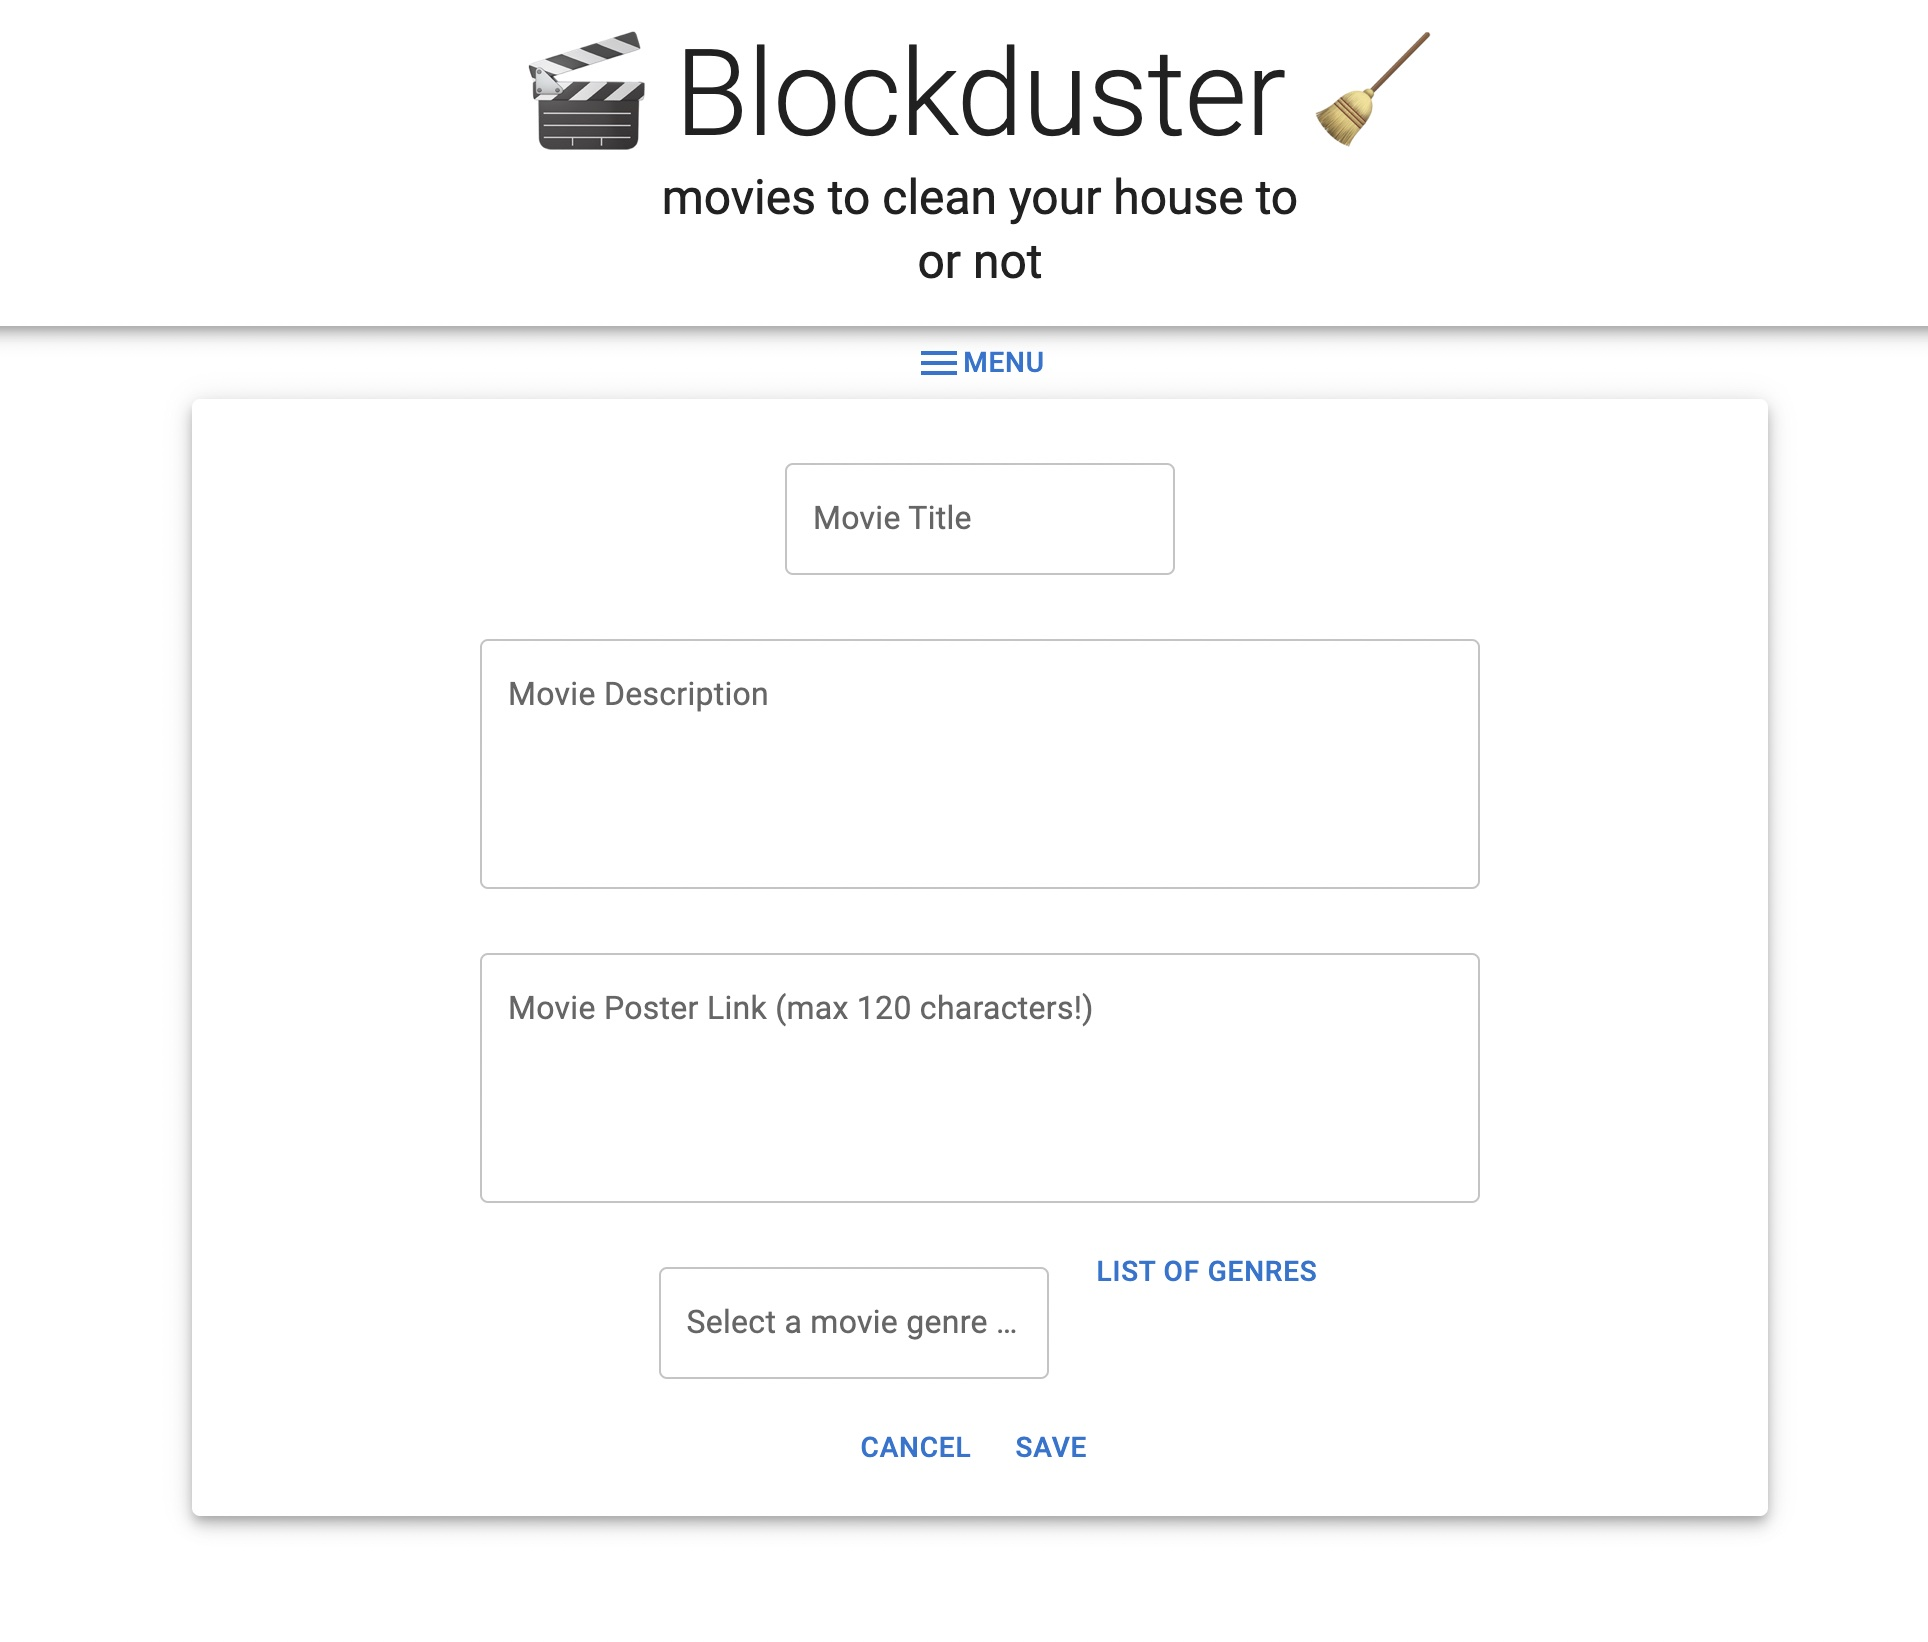
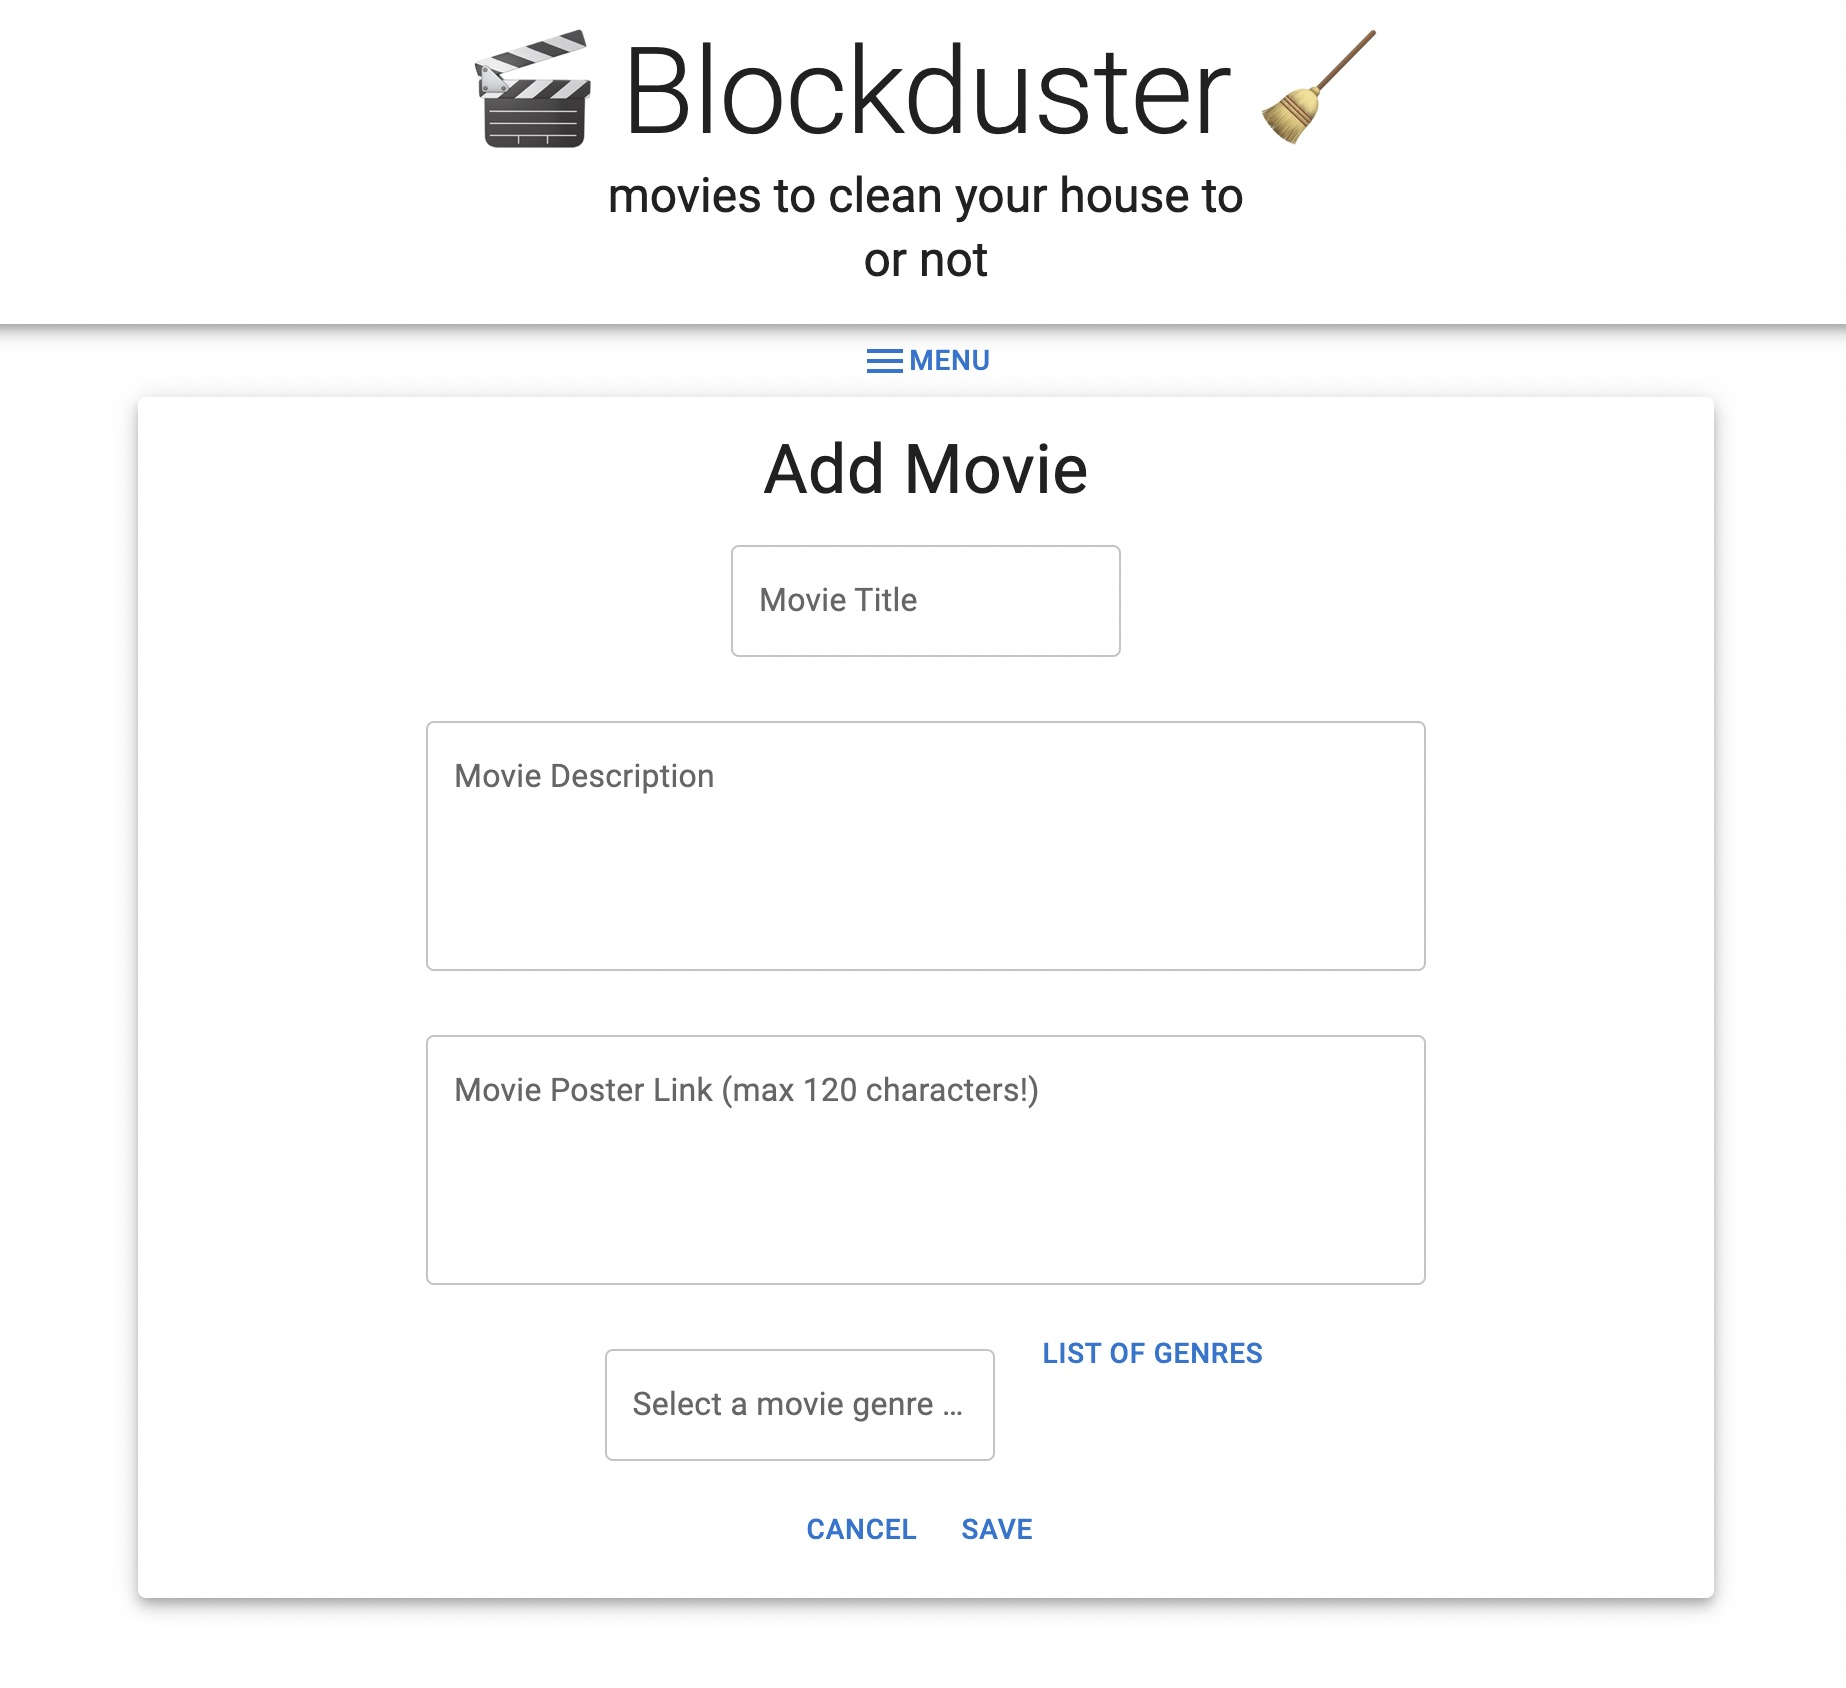
added page title to AddMovie and EditMovieDetails, updated related screenshots

diff --git a/src/components/AddMovie/AddMovie.jsx b/src/components/AddMovie/AddMovie.jsx
@@ -8,6 +8,7 @@ import Button from '@mui/material/Button';
 import Menu from '@mui/material/Menu';
 import MenuItem from '@mui/material/MenuItem';
 import Container from '@mui/material/Grid';
+import { Typography } from '@mui/material';
 
 const AddMovie = () => {
 
@@ -61,6 +62,7 @@ const AddMovie = () => {
             </Container>
             <Container sx={{display: 'flex', justifyContent: 'center'}}>
                 <Card elevation={5} sx={{width: '50%', padding: 2}}>
+                    <Typography variant="h4">Add Movie</Typography>
                     <TextField 
                         sx={{margin: 2}} 
                         label="Movie Title" 

diff --git a/src/components/EditMovieDetails/EditMovieDetails.jsx b/src/components/EditMovieDetails/EditMovieDetails.jsx
@@ -70,6 +70,8 @@ const EditMovieDetails = () => {
                     <Container sx={{display: 'flex', justifyContent: 'center'}}>
                         {movieDetails.map(detail => {
                             return  <Card elevation={5} sx={{width: '50%', padding: 2}}>
+                                        <Typography variant="h5">Edit Details: current info shown below</Typography>
+                                        <br />
                                         <Typography>{detail.title}</Typography>
                                         <TextField 
                                             sx={{margin: 2}} 
